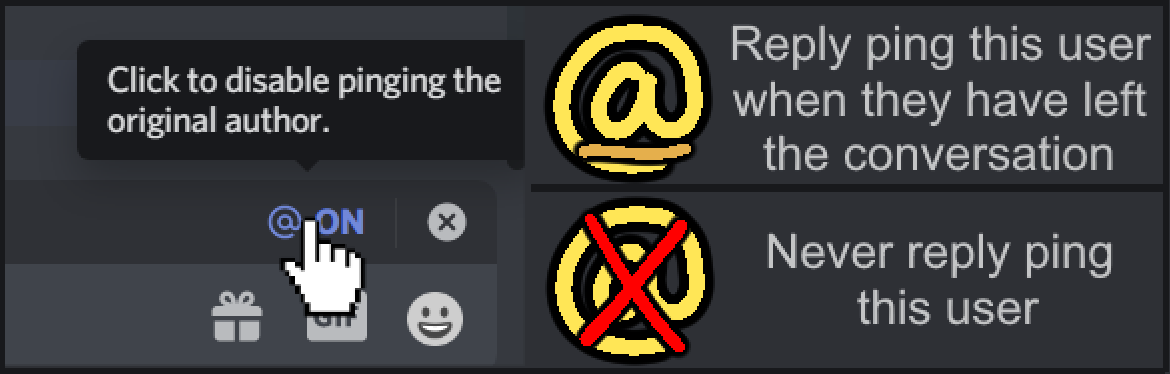
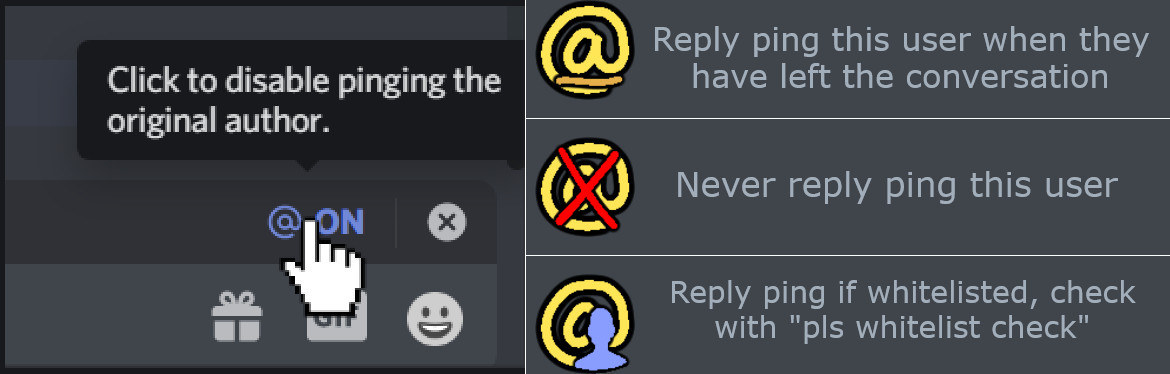
update whitelist img

Changed region(s): [[0.4308, 0.0, 1.0, 1.0]]

diff --git a/fluff/cogs/noreply.py b/fluff/cogs/noreply.py
@@ -287,7 +287,7 @@ class Reply(Cog):
                 if preference == NO_REPLY_PING:
                     await message.add_reaction("<:noping:1395562187032100995>") #TODO: REMOVE HARDCODE
                 elif preference == WHITELIST_PING:
-                    await message.add_reaction("<:whitelistping:1491923887171305492>")  # TODO: REMOVE HARDCODE
+                    await message.add_reaction("<:whitelistping~1:1492675723494948924>")  # TODO: REMOVE HARDCODE
             except discord.errors.NotFound:
                 await message.channel.send(
                     f"*thump thump* {message.author.mention} Quickdeleting a message that violates ping preferences is not cool!",
